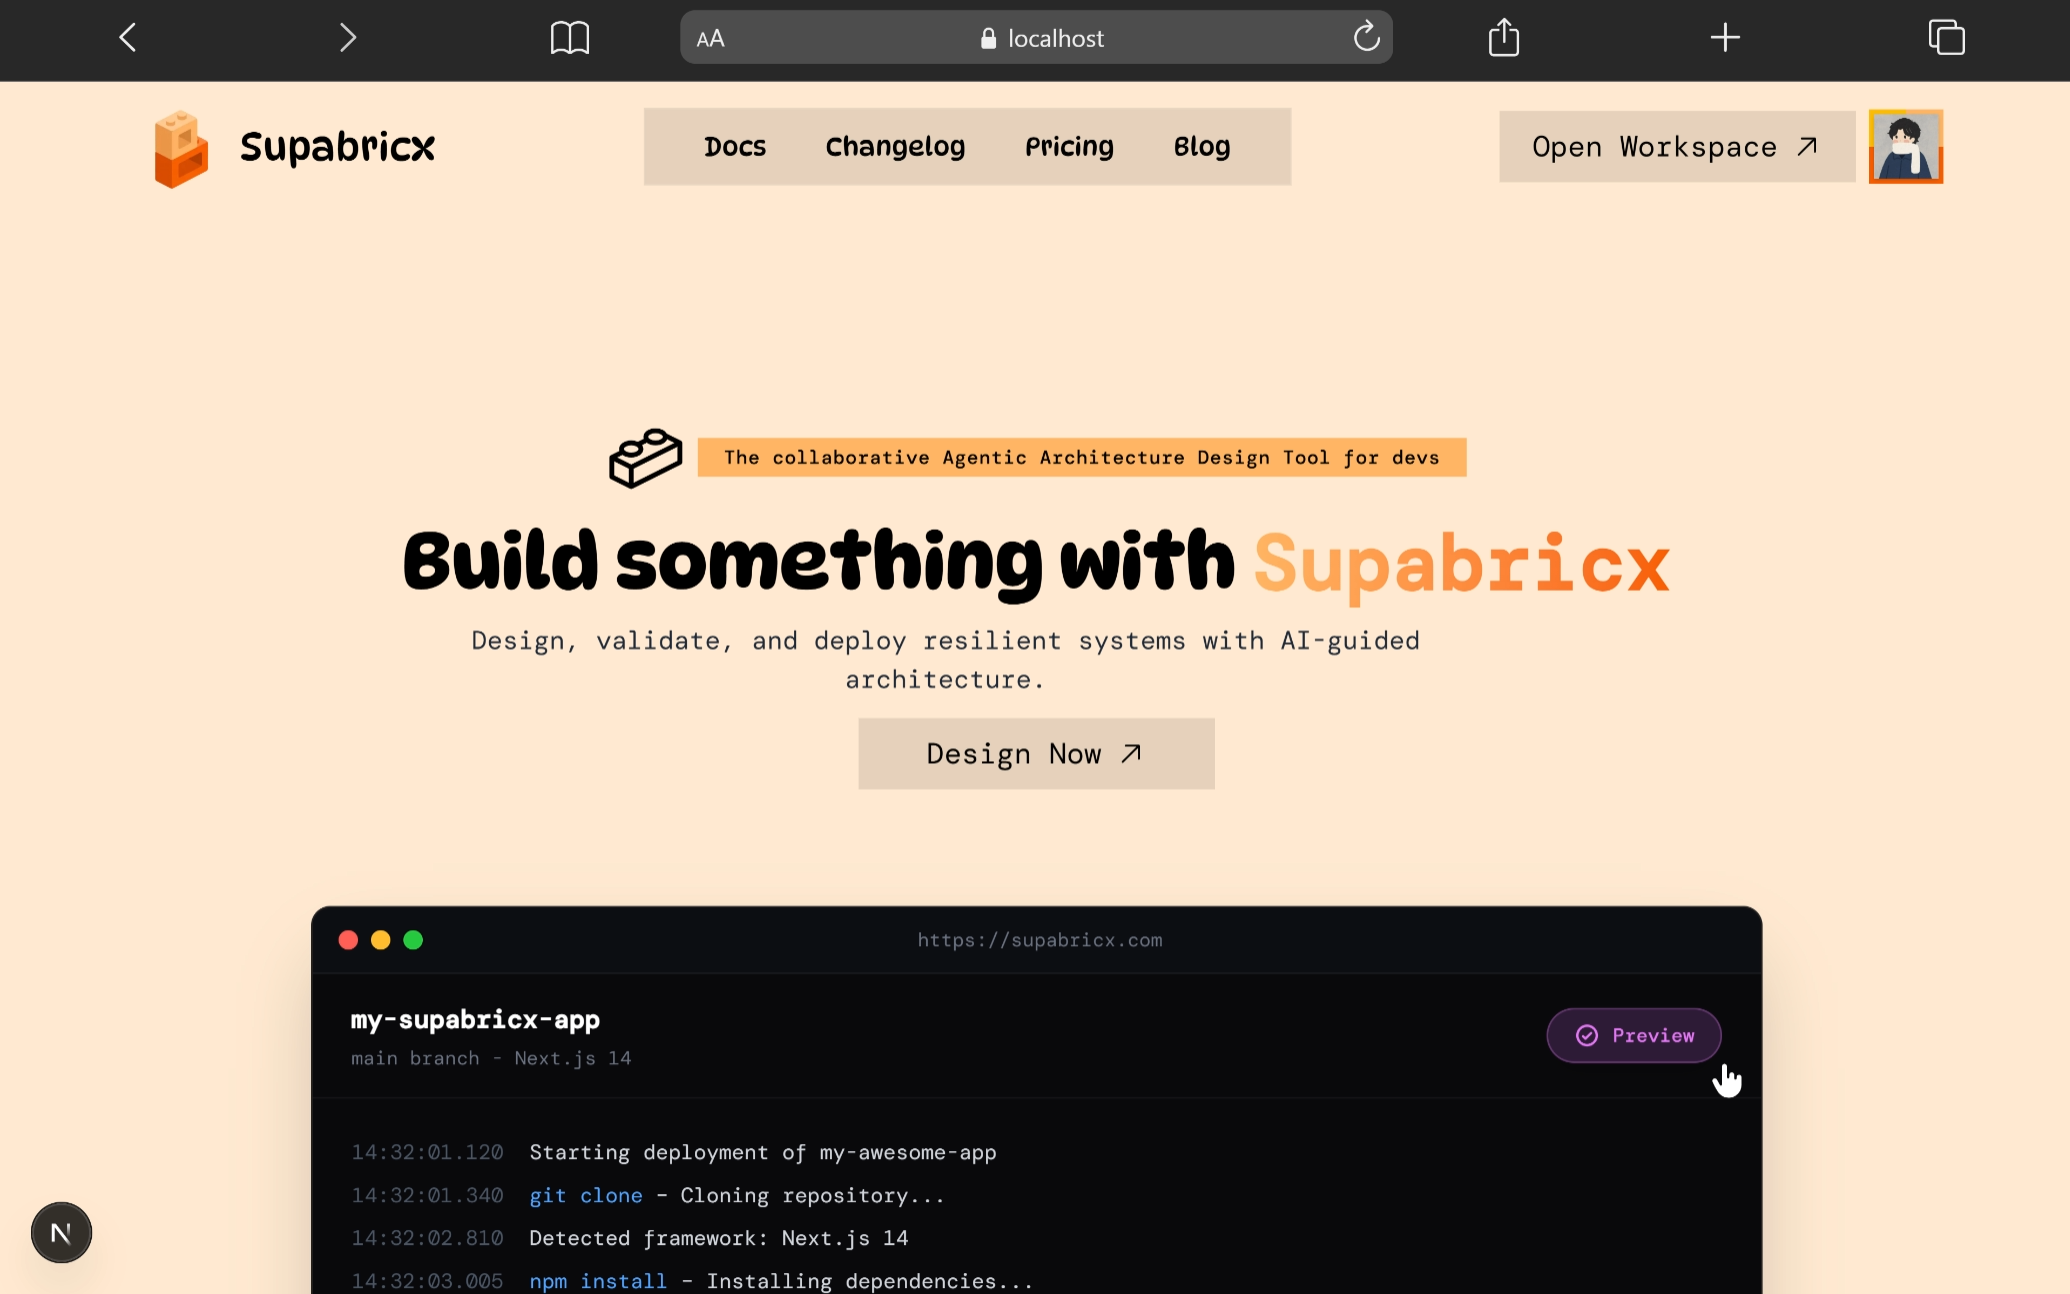
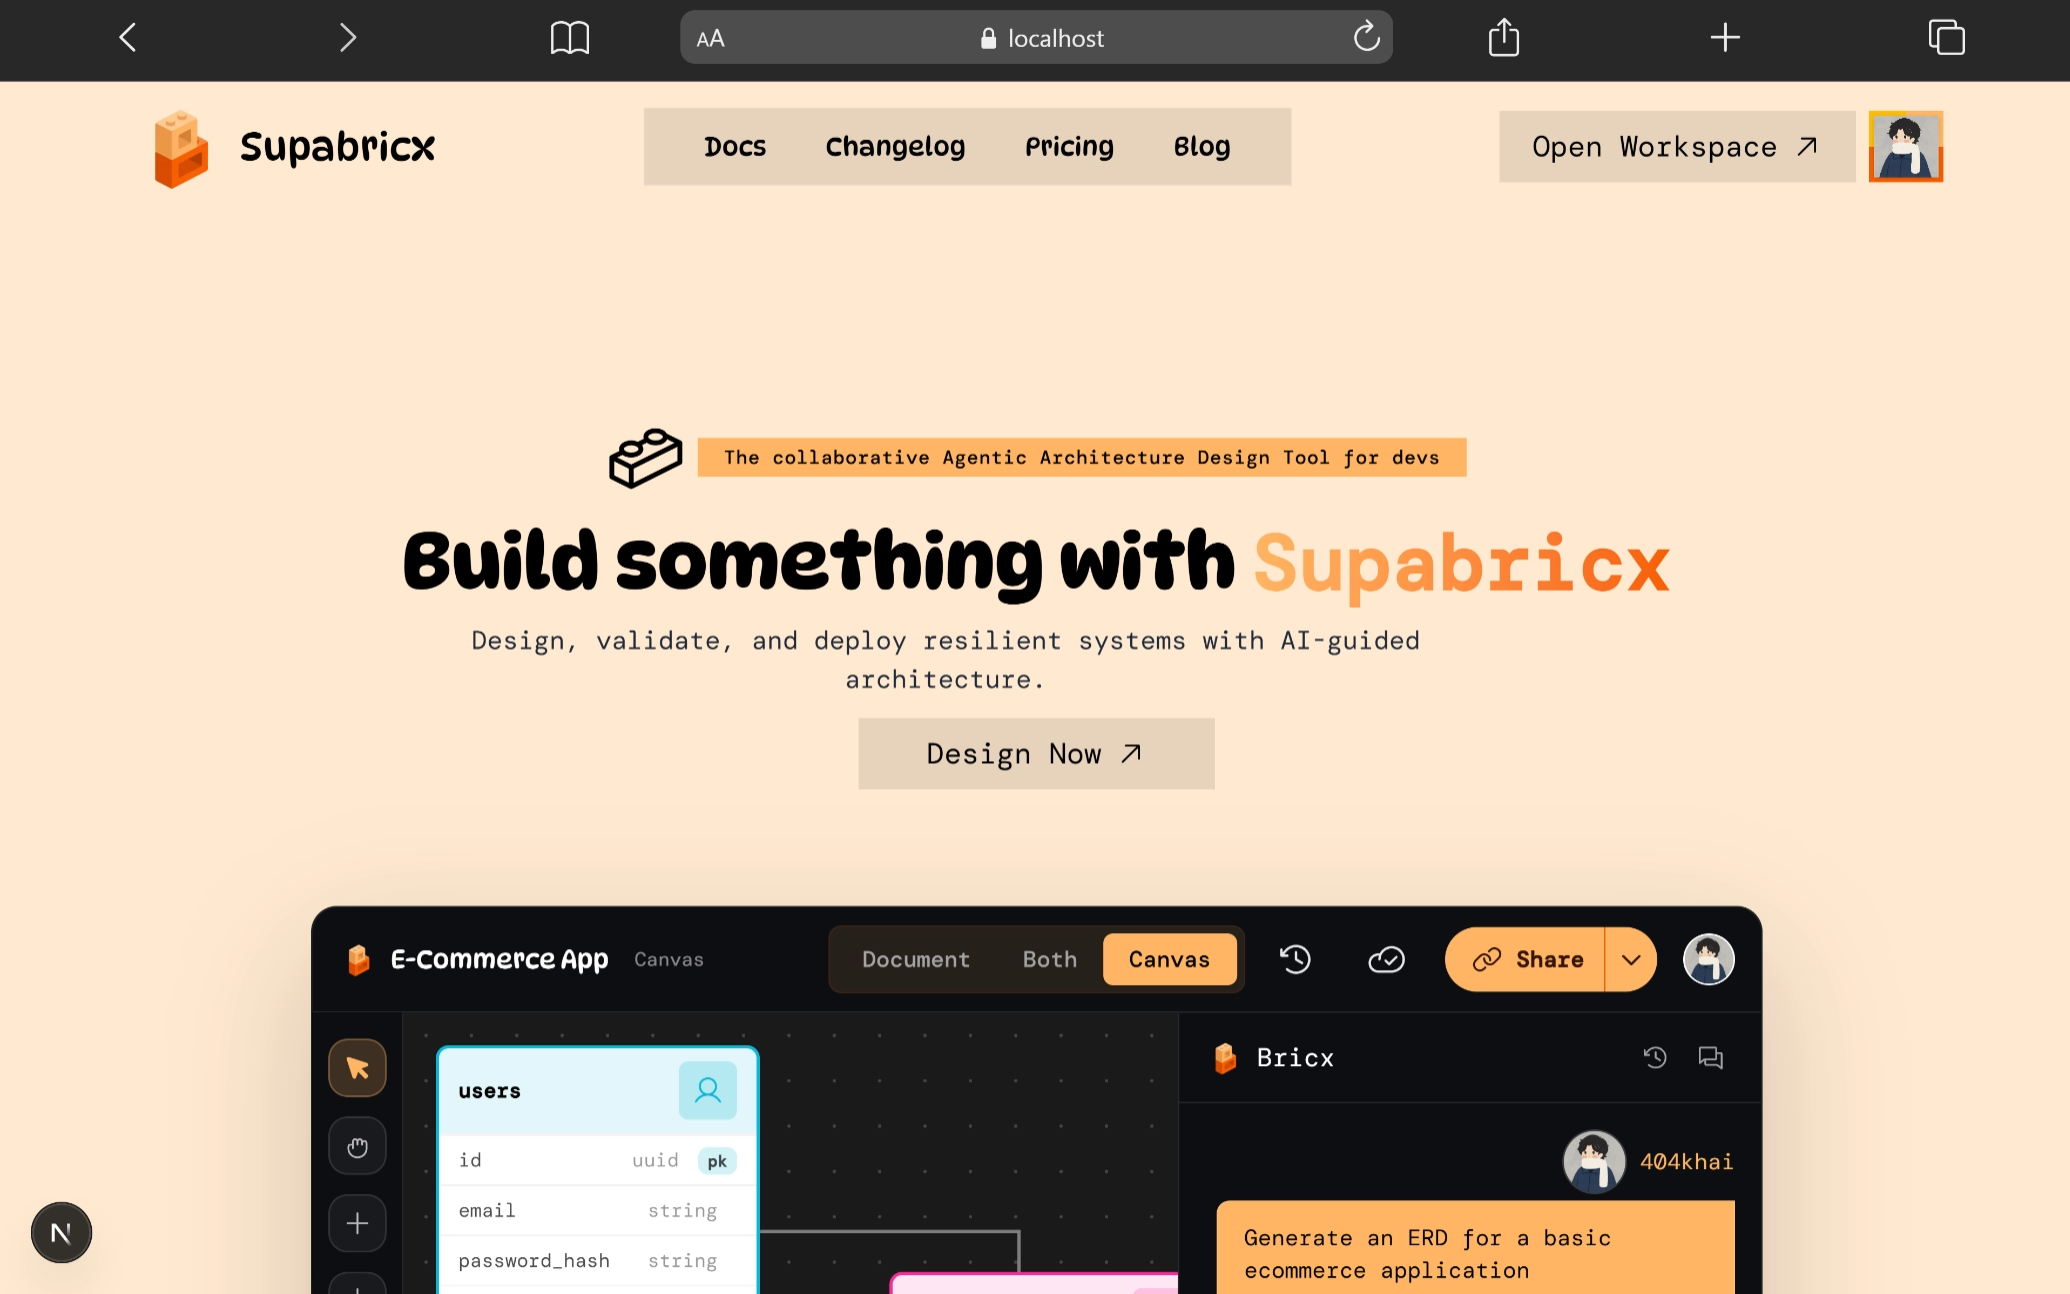
chore: add Supabricx to featured projects

diff --git a/app/(site)/page.tsx b/app/(site)/page.tsx
@@ -143,14 +143,14 @@ export default function Home() {
 
         {/* Hero Project */}
         <FeaturedProject 
-          title="Agentic Game Developer"
-          subtitle="Atlas"
-          description="Atlas is a semi-autonomous agentic AI where 2D game mechanics, systems and worlds are shaped"
-          linkText="Try out Atlas"
+          title="Agentic System Design"
+          subtitle="Supabricx"
+          description="Supabricx is a collaborative agentic system & architeture design assistant built for devs to design, validate, and deploy resilient systems with AI-guided architecture.."
+          linkText="Try out Supabricx"
           linkUrl="#"
-          logo="/atlas.png"
+          logo="/supabricx.png"
           // Using a colored placeholder since we don't have the image
-          imageUrl="/atlasUI.png" 
+          imageUrl="/supabricxBanner.png" 
         />
 
         {/* Project Grid */}
